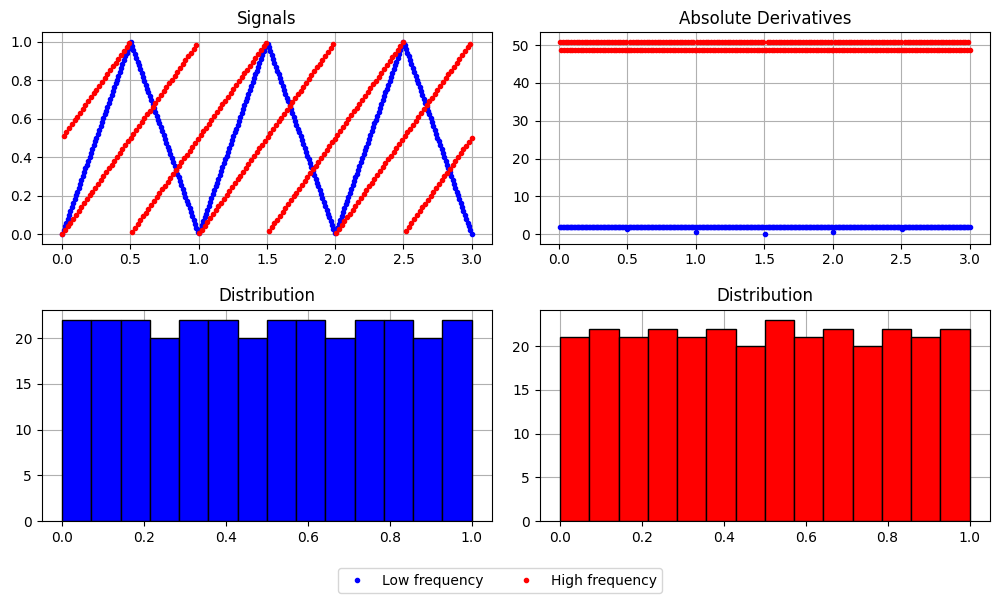
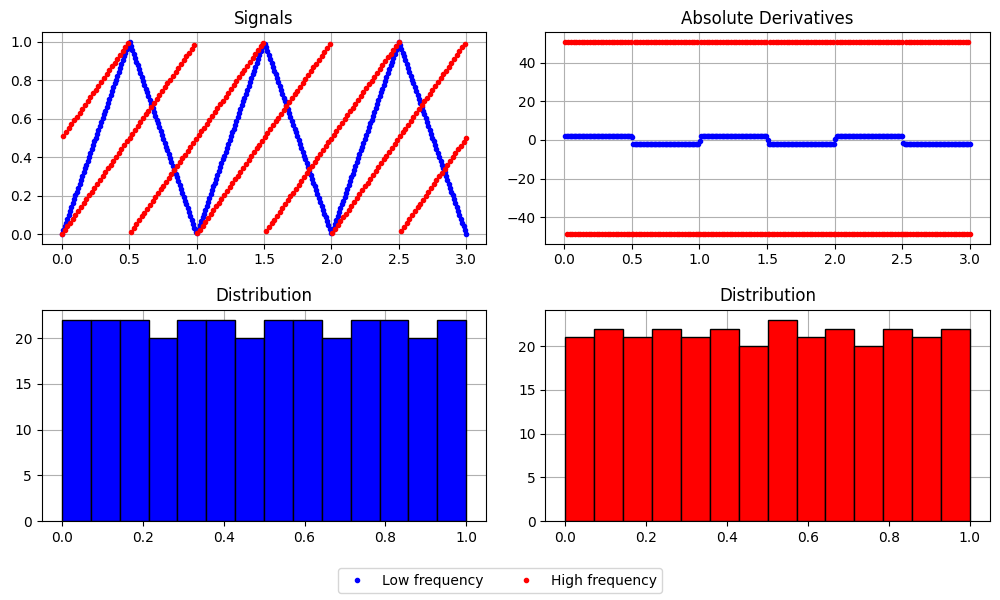
Plot signed (not absolute) derivatives

diff --git a/scripts/flashing_msg.py b/scripts/flashing_msg.py
@@ -30,9 +30,9 @@ def main(args: cli.Namespace):
             title="Signals",
         ),
         plotting.Subplot(
-            plotting.Line(x[1:], np.abs(np.diff(t)/np.diff(x)), c="b", **kw),
-            plotting.Line(x[1:], np.abs(np.diff(h)/np.diff(x)), c="r", **kw),
-            title="Absolute Derivatives",
+            plotting.Line(x[1:], (np.diff(t)/np.diff(x)), c="b", **kw),
+            plotting.Line(x[1:], (np.diff(h)/np.diff(x)), c="r", **kw),
+            title="Derivatives",
         ),
         plotting.Subplot(
             plotting.Hist(t, np.linspace(0, 1, 15), c="b"),
